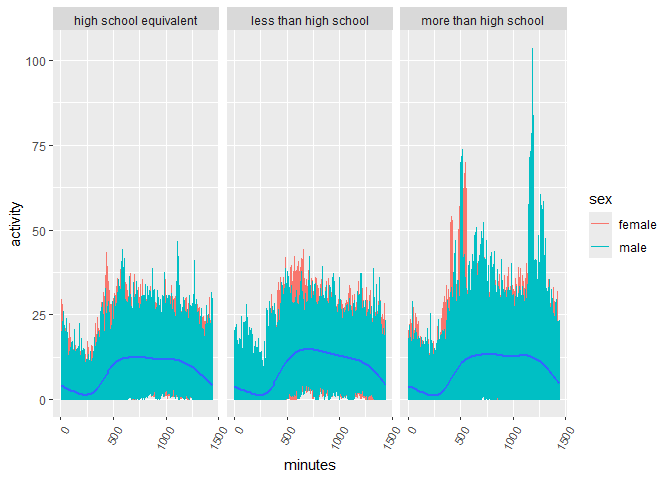
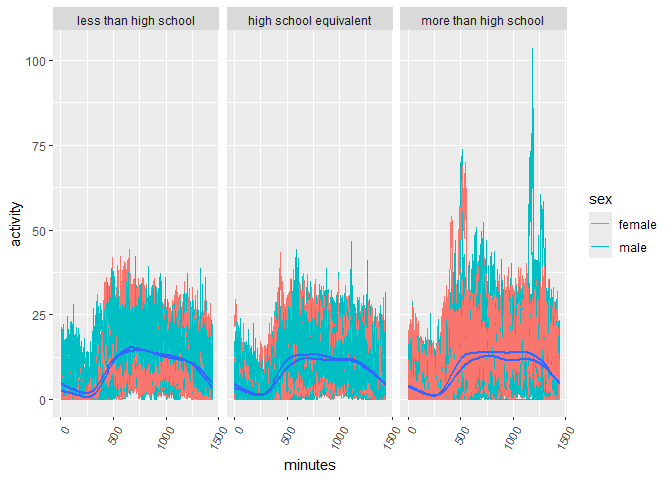
committing revisions

diff --git a/p8105_revisions_hw3_dmb2257.md b/p8105_revisions_hw3_dmb2257.md
@@ -372,7 +372,7 @@ covar_df =
         "1" ~ "less than high school",
         "2" ~ "high school equivalent",
         "3" ~ "more than high school"),
-    education = as.ordered(education)
+    education = fct_relevel(education, "less than high school", "high school equivalent", "more than high school")
     )
 ```
 
@@ -389,12 +389,22 @@ covar_df =
 merged_df = 
   left_join(accel_df, covar_df, by = "seqn")|>
   filter(age>=21)|>
-  drop_na(sex, age, bmi, education)
+  drop_na(sex, age, bmi, education)|>
+  pivot_longer(
+    min1:min1440,
+    names_to = "minutes",
+    values_to = "activity"
+  )|>
+  mutate(minutes = str_remove(minutes, "min"))
 ```
 
 ``` r
 #This produces a reader friendly table of men and women in each education category. 
 merged_df|>
+  pivot_wider(
+    names_from = minutes,
+    values_from = activity
+  )|>
   group_by(sex, education)|>
   summarize(n = n())|>
   pivot_wider(names_from = sex, values_from = n)|>
@@ -406,8 +416,8 @@ merged_df|>
 
 | education              | female | male |
 |:-----------------------|-------:|-----:|
-| high school equivalent |     23 |   35 |
 | less than high school  |     28 |   27 |
+| high school equivalent |     23 |   35 |
 | more than high school  |     59 |   56 |
 
 ``` r
@@ -420,7 +430,12 @@ mutate(age = as.numeric(age))
 sex_age|>
   group_by(seqn)|>
   ggplot()+
-  geom_boxplot(aes(sex, age, fill = education))
+  geom_boxplot(aes(sex, age, fill = education))+
+  labs(
+    title = "Age Distribution by Sex and Education",
+    x = "Sex",
+    y = "Age (years)"
+  )
 ```
 
 ![](p8105_revisions_hw3_dmb2257_files/figure-gfm/unnamed-chunk-12-1.png)<!-- -->
@@ -440,30 +455,25 @@ education, the median age for males is greater than the median age of
 females.
 
 ``` r
-# This aggregates the minutes for each participant.
-aggregate_df=
-merged_df|>
-  pivot_longer(
-    min1:min1440,
-    names_to = "minutes",
-    values_to = "activity"
-  )|>
-group_by(seqn)|>
-  summarize(total_activity = sum(activity))
-
 # This then plots the total activities against age, with pink for females and blue for males, and 3 separate panels for education. There is also a trend line to illustrate differences. 
-plot_df = 
-  left_join(merged_df, aggregate_df, by = "seqn")|>
-  select(seqn, age, sex, education, total_activity)|>
-  mutate(age = as.numeric(age))
 
-plot_df|>  
+merged_df|>
+  mutate(age = as.numeric(age))|>  
+  group_by(seqn, age, education, sex)|>
+  summarize(total_activity = sum(activity))|>
   ggplot(aes(x = age, y = total_activity, color = sex))+
   geom_point()+
   geom_smooth(se = FALSE)+
-  facet_grid(~education)
+  facet_grid(~education)+
+  labs(
+    title = "Total Activity by Age and Education",
+    x = "Age (years)",
+    y = "Total Activity"
+  )
 ```
 
+    ## `summarise()` has grouped output by 'seqn', 'age', 'education'. You can
+    ## override using the `.groups` argument.
     ## `geom_smooth()` using method = 'loess' and formula = 'y ~ x'
 
 ![](p8105_revisions_hw3_dmb2257_files/figure-gfm/unnamed-chunk-13-1.png)<!-- -->
@@ -475,23 +485,14 @@ and more than high school, females have greater total activity than
 males.
 
 ``` r
-accel_plot_df = 
-  merged_df|>
-  pivot_longer(
-    min1:min1440,
-    names_to = "minutes",
-    values_to = "activity"
-  )|>
-  mutate(minutes = str_remove(minutes, "min"))
-
 #This code chunk plots accelerometer data by the 24 hour activity time courses for each education level, and uses color to indicate sex.
 
-accel_plot_df|>
+merged_df|>
   group_by(seqn)|>
   mutate(minutes = as.numeric(minutes))|>
-  ggplot(aes(x =minutes, y = activity))+
+  ggplot(aes(x =minutes, y = activity, group = seqn))+
   geom_line(aes(color = sex))+
-  geom_smooth(se = FALSE)+
+  geom_smooth(aes(group = sex), se = FALSE)+
   facet_grid(~education)+
   theme(axis.text.x = element_text(angle = 60, hjust =1))
 ```
